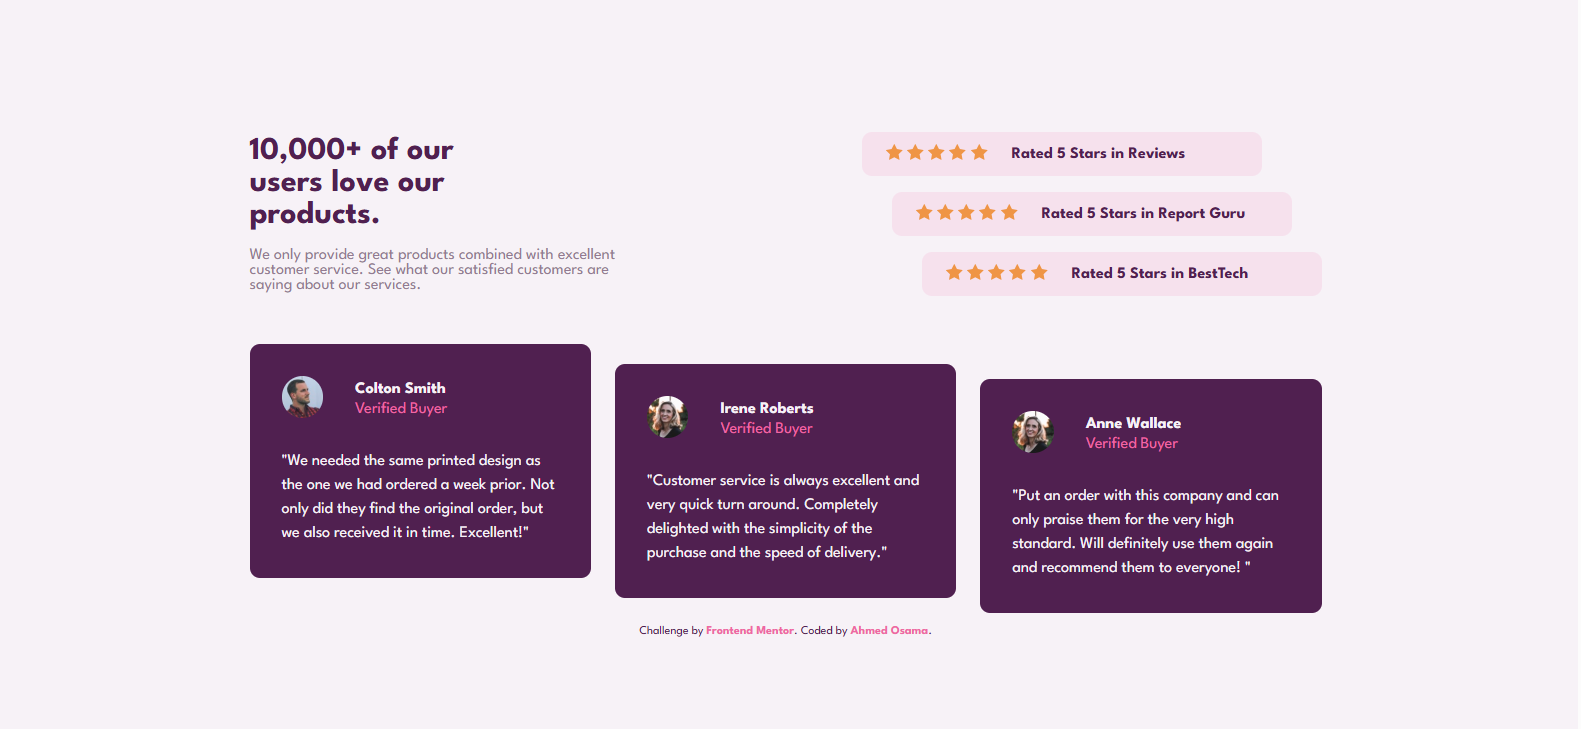
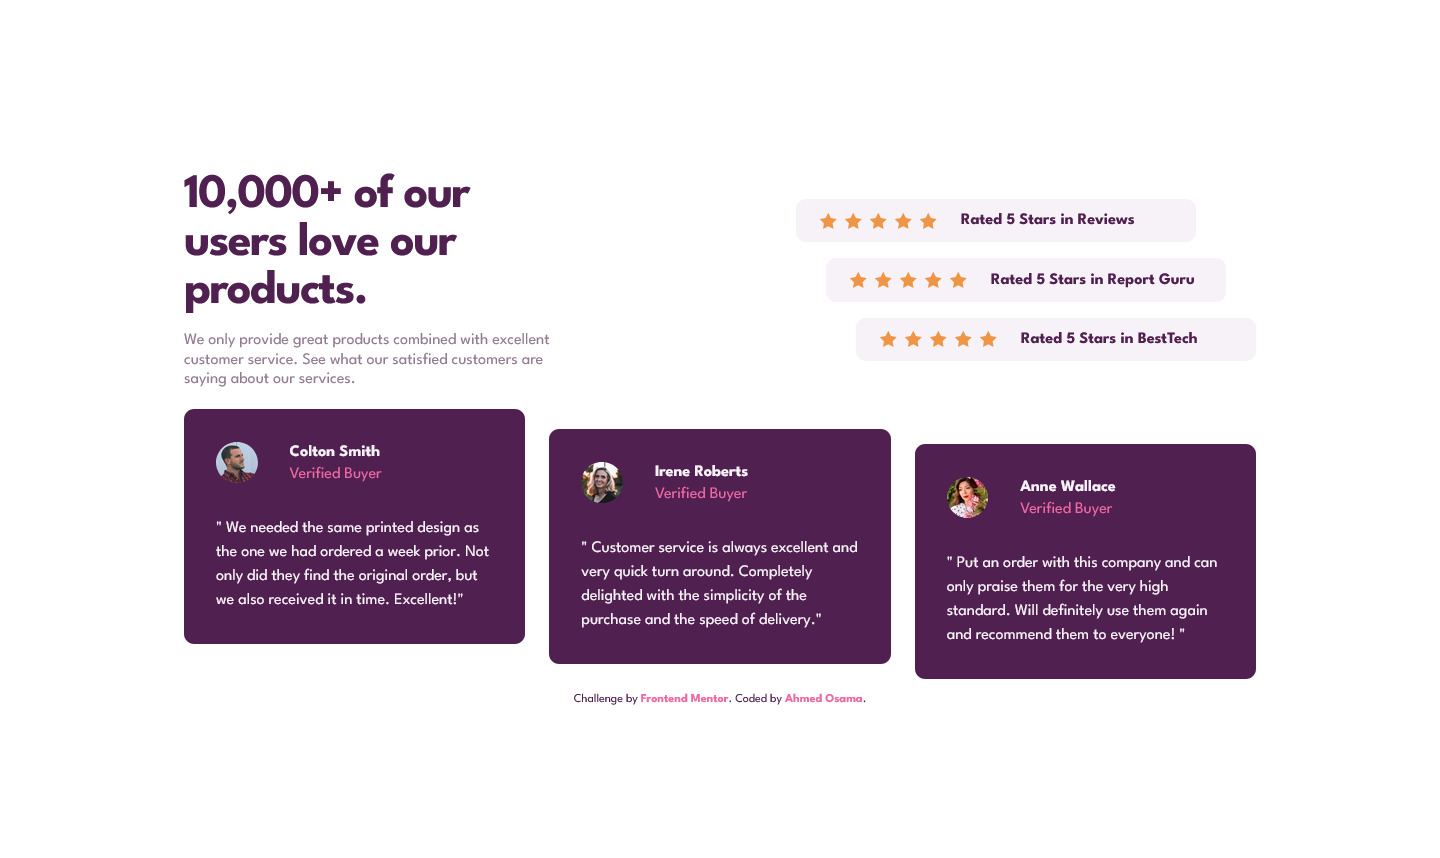
edit style

Changed region(s): [[0.125, 0.1811, 0.875, 0.8752], [0.5312, 0.1811, 0.8438, 0.4225]]

diff --git a/style.css b/style.css
@@ -16,7 +16,7 @@
 }
 body {
   font-family: "League Spartan", sans-serif;
-  background-color: var(--light-grayish-magenta);
+  background-color: var(--white);
   padding: clamp(1rem, 2vw, 2rem);
 }
 main {
@@ -34,6 +34,7 @@ main {
   text-align: center;
 }
 .intro .intro-brief h1 {
+  font-size: 3rem;
   max-width: 13ch;
   letter-spacing: -1.5px;
   margin: 1rem auto;
@@ -55,7 +56,7 @@ main {
 .intro .rates .rate {
   width: 100%;
   margin: 0 auto;
-  background-color: hsla(333.1, 79.8%, 67.1%, 0.12);
+  background-color: var(--light-grayish-magenta);
   display: flex;
   flex-direction: column;
   gap: 0.5rem;
@@ -63,6 +64,11 @@ main {
   border-radius: 10px;
   color: var(--very-dark-magenta);
   font-weight: 700;
+}
+.intro .rates .rate .stars{
+  display: flex;
+  justify-content: center;
+  gap: .5rem;
 }
 .testimonials {
   display: grid;
